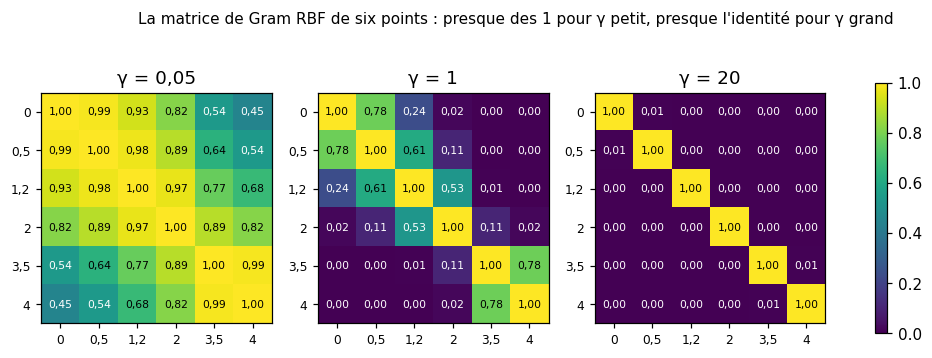
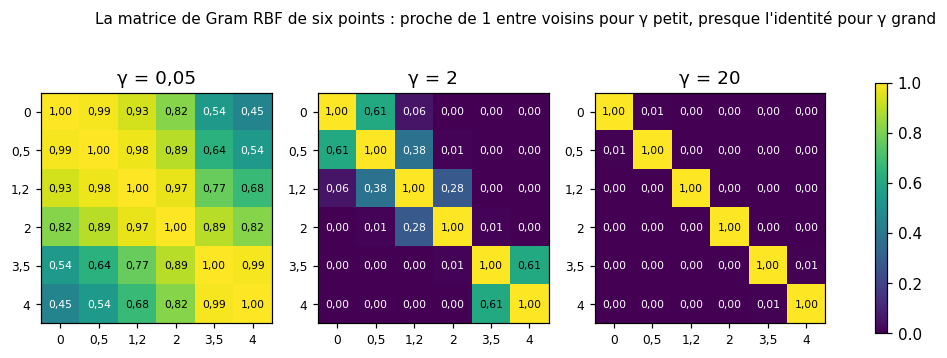
M13b: corrections de la relecture (règle de partage)
Claude-Session: https://claude.ai/code/session_01Nzd2BLBqKp1WGBHcAcsxs2

diff --git a/tools/chapters/figures_m13b.py b/tools/chapters/figures_m13b.py
@@ -36,7 +36,7 @@ POS = np.array([[6.0, 1.0], [7.0, 3.0], [8.0, 0.0]])          # §6: the positiv
 NEG = np.array([[3.0, 2.0], [1.0, 4.0], [0.0, 2.0]])          # §6: the negative examples
 W_SVM, B_SVM = np.array([0.6, -0.2]), -2.4                    # §6: the hard-margin solution
 GRAM_X = np.array([0.0, 0.5, 1.2, 2.0, 3.5, 4.0])             # §8: six points on a line
-GAMMAS = (0.05, 1.0, 20.0)                                    # §8: three widths
+GAMMAS = (0.05, 2.0, 20.0)                                    # §8: three widths
 
 
 def french_number(value: float, _pos=None) -> str:
@@ -181,7 +181,7 @@ def rbf_gram() -> None:
         ax.set_yticks(range(6), [french_number(v) for v in GRAM_X], fontsize=8)
         ax.set_title(f"γ = {french_number(gamma)}")
     fig.colorbar(im, ax=axes, shrink=0.8)
-    fig.suptitle("La matrice de Gram RBF de six points : presque des 1 pour γ petit, presque l'identité pour γ grand",
+    fig.suptitle("La matrice de Gram RBF de six points : proche de 1 entre voisins pour γ petit, presque l'identité pour γ grand",
                  fontsize=10)
     OUT.mkdir(parents=True, exist_ok=True)
     fig.savefig(OUT / "gram_rbf.png", dpi=DPI, bbox_inches="tight")

diff --git a/chapitres/m13b_lagrange_svm/01_fiche.md b/chapitres/m13b_lagrange_svm/01_fiche.md
@@ -41,7 +41,7 @@ Parcours essentiel : tout sauf Q3, Q8, M13b.2, M13b.4, M13b.6, M13b.10, M13b.11,
 - après le **§7** : le **§12.2** (*Primal Support Vector Machine*) : la marge (§12.2.1 à §12.2.3, que M10 t'a préparée), puis la marge souple vue géométriquement (§12.2.4) et par une loss (§12.2.5) ;
 - après le **§8** : le **§12.3** (*Dual Support Vector Machine* : la dualité par Lagrange, puis une lecture par les enveloppes convexes, qui prolonge M10 §2), le **§12.4** (*Kernels*) et le **§12.5** (*Numerical Solution*, à survoler). Questions : M13b.22.
 
-📐 **Notations.** MML écrit une contrainte d'inégalité $g_i(\mathbf{x}) \le 0$, ses multiplicateurs $\lambda_i \ge 0$ et le lagrangien $f + \sum_i \lambda_i g_i$, comme la fiche ; mais la fiche réserve $\lambda$ aux contraintes d'**égalité** (multiplicateur de signe quelconque), écrit $\mu$ ceux des **inégalités** (positifs ou nuls) et $\alpha_i$ ceux de la SVM, un par exemple. MML écrit $\langle \mathbf{w}, \mathbf{x} \rangle$ le produit scalaire, $N$ le nombre d'exemples, $\xi_n$ les variables d'écart et $r$ la marge. **M10 notait $\gamma$ la marge ; ici, la marge s'écrit $\rho$**, parce que $\gamma$ devient le paramètre du noyau RBF (§8). La marge est $\rho = 1/\lVert\mathbf{w}\rVert$ (de la frontière au point le plus proche), la **bande** a une largeur $2\rho = 2/\lVert\mathbf{w}\rVert$ : certains auteurs appellent marge cette largeur entière. Les labels d'une SVM valent $-1$ ou $+1$.
+📐 **Notations.** MML écrit une contrainte d'inégalité $g_i(\mathbf{x}) \le 0$, ses multiplicateurs $\lambda_i \ge 0$ et le lagrangien $f + \sum_i \lambda_i g_i$, comme la fiche ; mais la fiche réserve $\lambda$ aux contraintes d'**égalité** (multiplicateur de signe quelconque), écrit $\mu$ ceux des **inégalités** (positifs ou nuls) et $\alpha_i$ ceux de la SVM, un par exemple. MML écrit $\langle \mathbf{w}, \mathbf{x} \rangle$ le produit scalaire, $N$ le nombre d'exemples, $\xi_n$ les variables d'écart et $r$ la marge. **M10 notait $\gamma$ la marge ; ici, la marge s'écrit $\rho$**, parce que $\gamma$ devient le paramètre du noyau RBF (§8). La marge est $\rho = 1/\lVert\mathbf{w}\rVert$ (de la frontière au point le plus proche), la **bande** a une largeur $2\rho = 2/\lVert\mathbf{w}\rVert$. MML ($r$) et M10 ($\gamma$) appellent marge la distance de la frontière au point le plus proche ; d'autres textes donnent ce nom à $2\rho$ : fie-toi à la formule plutôt qu'au mot. Les labels d'une SVM valent $-1$ ou $+1$.
 
 **Deux homonymes.** Le **noyau** d'une SVM (*kernel*, une fonction de deux points, §8) n'a rien à voir avec le noyau d'une application linéaire (M12a). Et la **matrice de Gram** du §8 est la matrice $n \times n$ des produits scalaires des **exemples** (les lignes de $\mathbf{X}$) : c'est $\mathbf{X}\mathbf{X}^\top$, alors que M12c appelait matrice de Gram $\mathbf{X}^\top\mathbf{X}$, de taille $p \times p$, celle des colonnes.
 
@@ -67,7 +67,7 @@ Vocabulaire anglais de ce chapitre : *constrained optimization*, *equality / ine
 6. **Problème convexe** : objectif convexe, inégalités convexes, égalités affines. Tout minimum local y est global, et les conditions KKT suffisent.
 7. **SVM à marge dure** : $\min \frac{1}{2}\lVert\mathbf{w}\rVert^2$ sous $y_i(\mathbf{w} \cdot \mathbf{x}_i + b) \ge 1$ ; marge $\rho = 1/\lVert\mathbf{w}\rVert$ ; $\mathbf{w}$ est unique.
 8. **Marge souple** : $J(\mathbf{w}, b) = \frac{1}{2}\lVert\mathbf{w}\rVert^2 + C\sum_i \max(0, 1 - y_i(\mathbf{w} \cdot \mathbf{x}_i + b))$, la **hinge loss** ; on la minimise par **sous-gradient**, sans garantie de baisse à chaque pas.
-9. **Dual** : $\mathbf{w} = \sum_i \alpha_i y_i \mathbf{x}_i$, $\sum_i \alpha_i y_i = 0$, $0 \le \alpha_i \le C$ ; les **vecteurs de support** sont les exemples où $\alpha_i > 0$, et eux seuls comptent.
+9. **Dual** : $\mathbf{w} = \sum_i \alpha_i y_i \mathbf{x}_i$, $\sum_i \alpha_i y_i = 0$, $0 \le \alpha_i \le C$ ; les **vecteurs de support** sont les exemples où $\alpha_i > 0$ : $\mathbf{w}$ ne dépend que d'eux.
 10. Le dual et la décision ne demandent que des produits scalaires $\mathbf{x}_i \cdot \mathbf{x}_j$ : les remplacer par un **noyau** $k(\mathbf{x}, \mathbf{z}) = \varphi(\mathbf{x}) \cdot \varphi(\mathbf{z})$ (polynomial, RBF), c'est travailler dans un autre espace sans jamais calculer $\varphi$.
 
 ---
@@ -80,7 +80,7 @@ On cherche le minimum de $f(\mathbf{x})$ non plus sur tout $\mathbb{R}^n$, mais 
 $$\min_{\mathbf{x}} f(\mathbf{x}) \quad \text{sous la contrainte} \quad g(\mathbf{x}) = 0.$$
 Les points qui vérifient la contrainte forment l'**ensemble admissible** (*feasible set*). Annuler $\nabla f$ ne sert plus à rien : le minimum libre n'est en général pas admissible.
 
-**Exemple.** Minimiser $f(x, y) = x^2 + 3y^2$ sous $x + y = 8$. On peut remplacer $y$ par $8 - x$ et minimiser une fonction d'une variable : $x^2 + 3(8 - x)^2$, de dérivée $2x - 6(8 - x) = 8x - 48$, nulle en $x = 6$, donc $y = 2$ et $f = 36 + 12 = 48$. Cette **élimination** marche ici, mais elle devient vite impraticable (une contrainte non linéaire, plusieurs contraintes, beaucoup de variables). Lagrange donne une méthode générale.
+**Exemple.** Minimiser $f(x, y) = x^2 + 3y^2$ sous $x + y = 8$. On peut remplacer $y$ par $8 - x$ et minimiser une fonction d'une variable : $x^2 + 3(8 - x)^2$, de dérivée $2x - 6(8 - x) = 8x - 48$, nulle en $x = 6$, donc $y = 2$ et $f = 36 + 12 = 48$. Cette **élimination** marche ici, mais elle devient vite impraticable (une contrainte non linéaire, plusieurs contraintes, beaucoup de variables). Lagrange donne une méthode générale. (C'est l'ellipse de 🔮 M05b.22, deux fois plus grande : en $(3, 1)$, sa ligne de niveau 12 avait déjà la direction $(1, -1)$, celle des droites $x + y = \text{constante}$.)
 
 ### Les lignes de niveau touchent la contrainte
 
@@ -279,13 +279,13 @@ Six exemples : label $+1$ pour $(6, 1)$, $(7, 3)$, $(8, 0)$ ; label $-1$ pour $(
 
 ![Six exemples, la frontière w · x + b = 0 et les bords à ±1 : la bande, de largeur √10, s'appuie sur les deux vecteurs de support (6, 1) et (3, 2)](figures/svm_marge_dure.png)
 
-⚠ **Erreur classique.** Confondre la marge et la largeur de la bande (un facteur 2), ou la marge et $\lVert\mathbf{w}\rVert$ : ici $\lVert\mathbf{w}\rVert \approx 0{,}63$, la marge $\approx 1{,}58$, la bande $\approx 3{,}16$. Écris toujours laquelle tu donnes (🐛 M13b.32).
+⚠ **Erreur classique.** Confondre la marge et la largeur de la bande (un facteur 2), ou la marge et $\lVert\mathbf{w}\rVert$ : ici $\lVert\mathbf{w}\rVert \approx 0{,}63$, $\rho \approx 1{,}58$, $2\rho \approx 3{,}16$ (🐛 M13b.32).
 
 ## §7 · Marge souple, hinge loss et sous-gradient
 
 ### Autoriser des violations
 
-Des données réelles ne sont presque jamais séparables, et même quand elles le sont, un seul point aberrant peut imposer une bande très étroite. La **marge souple** (*soft margin*) autorise chaque exemple à manquer sa marge d'une quantité $\xi_i \ge 0$, une **variable d'écart** (*slack variable*), et fait payer ce manque :
+Des données réelles ne sont presque jamais séparables, et même quand elles le sont, un seul point aberrant peut imposer une bande très étroite. La **marge souple** (*soft margin*) relâche chaque contrainte en $y_i(\mathbf{w} \cdot \mathbf{x}_i + b) \ge 1 - \xi_i$, avec une **variable d'écart** (*slack variable*) $\xi_i \ge 0$ par exemple, et ajoute $C\sum_i \xi_i$ à l'objectif :
 $$\min_{\mathbf{w}, b, \boldsymbol{\xi}} \ \frac{1}{2}\lVert\mathbf{w}\rVert^2 + C\sum_{i=1}^n \xi_i \quad \text{sous} \quad y_i(\mathbf{w} \cdot \mathbf{x}_i + b) \ge 1 - \xi_i, \quad \xi_i \ge 0.$$
 $C > 0$ règle l'échange entre une bande large ($\lVert\mathbf{w}\rVert$ petit) et peu de manques. C'est encore un programme quadratique convexe, en $p + 1 + n$ variables.
 
@@ -305,7 +305,7 @@ où $\ell$ est la **hinge loss** (« charnière »), une fonction de la marge fo
 
 En divisant $J$ par $nC$, on retrouve la forme « loss moyenne plus pénalité » des chapitres de régression :
 $$\frac{J(\mathbf{w}, b)}{nC} = \frac{1}{n}\sum_{i=1}^n \ell\big(y_i\,s(\mathbf{x}_i)\big) + \frac{\lambda}{2}\lVert\mathbf{w}\rVert^2, \qquad \lambda = \frac{1}{nC} :$$
-un grand $C$ est une petite pénalité. Quand $C$ grandit, $\lVert\mathbf{w}\rVert$ grandit (ou reste égal), donc la bande se rétrécit ; si les données sont séparables, la solution tend vers celle de la marge dure quand $C \to \infty$.
+doubler $C$ divise $\lambda$ par 2. Quand $C$ grandit, $\lVert\mathbf{w}\rVert$ grandit (ou reste égal), donc la bande se rétrécit ; si les données sont séparables, la solution tend vers celle de la marge dure quand $C \to \infty$.
 
 <details><summary>Pourquoi ‖w‖ grandit avec C</summary>
 
@@ -319,7 +319,7 @@ $J$ n'est pas dérivable aux points où une marge fonctionnelle vaut exactement 
 
 > **Sous-gradient** (*subgradient*). $\mathbf{g}$ est un **sous-gradient** de la fonction convexe $f$ en $\mathbf{u}$ si
 > $$f(\mathbf{v}) \ge f(\mathbf{u}) + \mathbf{g} \cdot (\mathbf{v} - \mathbf{u}) \quad \text{pour tout } \mathbf{v} :$$
-> l'hyperplan de pente $\mathbf{g}$ qui passe par $(\mathbf{u}, f(\mathbf{u}))$ reste sous le graphe. L'ensemble des sous-gradients en $\mathbf{u}$ est le **sous-différentiel** $\partial f(\mathbf{u})$.
+> la fonction affine $\mathbf{v} \mapsto f(\mathbf{u}) + \mathbf{g} \cdot (\mathbf{v} - \mathbf{u})$ minore $f$ partout, et la touche en $\mathbf{u}$. L'ensemble des sous-gradients en $\mathbf{u}$ est le **sous-différentiel** $\partial f(\mathbf{u})$.
 
 Là où $f$ est dérivable, le seul sous-gradient est $\nabla f(\mathbf{u})$ (la tangente). À un coude, il y en a toute une famille : pour la hinge en $t = 1$, toute pente entre $-1$ et $0$ convient. Et $\mathbf{0} \in \partial f(\mathbf{u})$ si et seulement si $\mathbf{u}$ est un minimum : c'est la condition d'optimalité qui remplace $\nabla f = \mathbf{0}$.
 
@@ -362,9 +362,9 @@ Les conditions KKT de la marge souple classent les exemples en trois groupes :
 
 | $\alpha_i$ | Marge fonctionnelle $y_i\,s(\mathbf{x}_i)$ | Position |
 |---|---|---|
-| $\alpha_i = 0$ | $\ge 1$ | hors de la bande, du bon côté : n'entre pas dans $\mathbf{w}$ |
-| $0 < \alpha_i < C$ | $= 1$ | exactement sur un bord : vecteur de support « libre » |
-| $\alpha_i = C$ | $\le 1$ | dans la bande, ou du mauvais côté : vecteur de support « borné » |
+| $\alpha_i = 0$ | $\ge 1$ | au-delà du bord de sa classe, ou dessus : n'entre pas dans $\mathbf{w}$ |
+| $0 < \alpha_i < C$ | $= 1$ | sur le bord de sa classe : vecteur de support « libre » |
+| $\alpha_i = C$ | $\le 1$ | entre ce bord et la frontière ($0 \le t_i \le 1$), ou de l'autre côté de la frontière ($t_i < 0$) : vecteur de support « borné » |
 
 Les **vecteurs de support** sont les exemples où $\alpha_i > 0$. Une fois $\boldsymbol{\alpha}$ connu, $\mathbf{w} = \sum_i \alpha_i y_i \mathbf{x}_i$, et $b$ se lit sur un vecteur de support **libre** $\mathbf{x}_s$ : $y_s(\mathbf{w} \cdot \mathbf{x}_s + b) = 1$, donc $b = y_s - \mathbf{w} \cdot \mathbf{x}_s$ (car $y_s = \pm 1$, $1/y_s = y_s$). En pratique, on fait la moyenne sur tous les vecteurs libres (✏ M13b.11).
 
@@ -388,21 +388,21 @@ C'est l'**astuce du noyau** (*kernel trick*) : une SVM linéaire dans l'espace d
 
 En dimension 1, avec $c = 1$ et $d = 2$ :
 $$(1 + xz)^2 = 1 + 2xz + x^2z^2 = \big(1,\ \sqrt{2}\,x,\ x^2\big) \cdot \big(1,\ \sqrt{2}\,z,\ z^2\big) :$$
-$\varphi(x) = (1, \sqrt{2}\,x, x^2)$ a trois coordonnées, et les $\sqrt{2}$ sont là pour que le terme croisé $2xz$ sorte d'un produit scalaire. En dimension $p$, le développement de $(1 + \mathbf{x} \cdot \mathbf{z})^d$ fait apparaître **tous les monômes** des $x_j$ de degré au plus $d$, chacun avec un coefficient : $\varphi$ a autant de coordonnées que `count_monomials(p, d, include_constant=True)` en compte (M09b). Pour $p = 50$ et $d = 3$, c'est déjà $\binom{53}{3} = 23\,426$ coordonnées, alors que $k$ ne demande qu'un produit scalaire de 50 termes, une addition et un cube. ✏ M13b.12 écrit $\varphi$ en dimension 2.
+$\varphi(x) = (1, \sqrt{2}\,x, x^2)$ a trois coordonnées, et les $\sqrt{2}$ sont là pour que le terme croisé $2xz$ sorte d'un produit scalaire. En dimension $p$, le développement de $(1 + \mathbf{x} \cdot \mathbf{z})^d$ fait apparaître **tous les monômes** des $x_j$ de degré au plus $d$, chacun avec un coefficient : $\varphi$ a autant de coordonnées que `count_monomials(p, d, include_constant=True)` en compte (M09b). Pour $p = 50$ et $d = 3$, c'est déjà $\binom{53}{3} = 23\,426$ coordonnées, et autant de produits pour $\varphi(\mathbf{x}) \cdot \varphi(\mathbf{z})$ ; $k$, lui, se calcule en une cinquantaine de multiplications. ✏ M13b.12 écrit $\varphi$ en dimension 2.
 
 ### Le noyau RBF
 
 > **Noyau RBF** (gaussien, *radial basis function*). $k(\mathbf{x}, \mathbf{z}) = e^{-\gamma\lVert\mathbf{x} - \mathbf{z}\rVert^2}$, avec $\gamma > 0$.
 
-Il ne dépend que de la distance entre les points : $k(\mathbf{x}, \mathbf{x}) = 1$, et $k$ décroît de 1 vers 0 quand les points s'éloignent, d'autant plus vite que $\gamma$ est grand. Son $\varphi$ a une **suite infinie** de coordonnées. En dimension 1 :
+Il ne dépend que de la distance $d = \lVert\mathbf{x} - \mathbf{z}\rVert$, et passe sous 1 % dès que $\gamma d^2 > 4{,}6$, soit $d > 2{,}15/\sqrt{\gamma}$ : $1/\sqrt{\gamma}$ est l'échelle de longueur du noyau. Son $\varphi$ a une **suite infinie** de coordonnées. En dimension 1 :
 $$e^{-\gamma(x - z)^2} = e^{-\gamma x^2}\,e^{-\gamma z^2}\,e^{2\gamma xz} = \sum_{m=0}^{\infty} \Big(e^{-\gamma x^2}\sqrt{\tfrac{(2\gamma)^m}{m!}}\,x^m\Big)\Big(e^{-\gamma z^2}\sqrt{\tfrac{(2\gamma)^m}{m!}}\,z^m\Big),$$
 par la série de l'exponentielle (M05a) : $\varphi_m(x) = e^{-\gamma x^2}\sqrt{(2\gamma)^m/m!}\;x^m$, pour $m = 0, 1, 2, \ldots$ Aucune machine ne calculerait $\varphi$, mais $k$ se calcule en une ligne.
 
-**Distances dans l'espace des features.** Pour tout noyau, $\lVert\varphi(\mathbf{x}) - \varphi(\mathbf{z})\rVert^2 = k(\mathbf{x}, \mathbf{x}) - 2k(\mathbf{x}, \mathbf{z}) + k(\mathbf{z}, \mathbf{z})$ (développe le carré). Pour le RBF, c'est $2 - 2k(\mathbf{x}, \mathbf{z})$ : les images sont toutes sur une sphère de rayon 1, à moins de $\sqrt{2}$ les unes des autres.
+**Distances dans l'espace des features.** Pour tout noyau, $\lVert\varphi(\mathbf{x}) - \varphi(\mathbf{z})\rVert^2 = k(\mathbf{x}, \mathbf{x}) - 2k(\mathbf{x}, \mathbf{z}) + k(\mathbf{z}, \mathbf{z})$ (développe le carré). Pour le RBF, où $k(\mathbf{x}, \mathbf{x}) = e^0 = 1$, c'est $2 - 2k(\mathbf{x}, \mathbf{z})$ : les images sont toutes sur une sphère de rayon 1, à moins de $\sqrt{2}$ les unes des autres.
 
-**L'effet de γ.** Quand $\gamma \to 0$, toutes les valeurs $k(\mathbf{x}_i, \mathbf{x}_j)$ tendent vers 1 : la matrice de Gram tend vers la matrice pleine de 1, de rang 1, et la SVM ne distingue presque plus les exemples. Quand $\gamma \to \infty$, $k(\mathbf{x}_i, \mathbf{x}_j) \to 0$ pour $i \ne j$ : la matrice de Gram tend vers l'identité, chaque exemple n'agit plus que dans un tout petit voisinage de lui-même : la SVM apprend ses données par cœur (overfitting), et, loin de tous les exemples, la décision se réduit au signe de $b$ (🔗 M13b.20). On règle $\gamma$ et $C$ ensemble, par validation croisée (✏ M13b.13).
+**L'effet de γ.** Quand $\gamma \to 0$, toutes les valeurs $k(\mathbf{x}_i, \mathbf{x}_j)$ tendent vers 1 : la matrice de Gram tend vers la matrice pleine de 1, de rang 1, et la SVM ne distingue presque plus les exemples. Quand $\gamma \to \infty$, $k(\mathbf{x}_i, \mathbf{x}_j) \to 0$ pour $i \ne j$ : la matrice de Gram tend vers l'identité, chaque exemple n'agit plus que dans un tout petit voisinage de lui-même : la SVM apprend ses données par cœur (overfitting), et, loin de tous les exemples, la décision se réduit au signe de $b$ (🔗 M13b.20). $\gamma$ et $C$ sont des hyperparamètres : cette fiche n'en fixe pas la valeur, qui se choisit sur des données de validation (workbookIA 13). ✏ M13b.13 calcule les deux limites.
 
-![La matrice de Gram RBF de six points d'une droite (0 ; 0,5 ; 1,2 ; 2 ; 3,5 ; 4) pour γ = 0,05, 1 et 20 : des valeurs proches de 1 entre voisins, puis des blocs de voisins, puis presque l'identité](figures/gram_rbf.png)
+![La matrice de Gram RBF de six points d'une droite (0 ; 0,5 ; 1,2 ; 2 ; 3,5 ; 4) pour γ = 0,05, 2 et 20 : des valeurs proches de 1 entre voisins, puis des blocs de voisins, puis presque l'identité](figures/gram_rbf.png)
 
 ### Quelles fonctions sont des noyaux ?
 

diff --git a/chapitres/m13b_lagrange_svm/02_exercices.md b/chapitres/m13b_lagrange_svm/02_exercices.md
@@ -74,7 +74,7 @@ Pour chaque problème, dis s'il est convexe, et pourquoi en une phrase.
 3. Vrai ou faux : un exemple bien classé ($t > 0$) ne coûte jamais rien.
 4. Vrai ou faux : pour tout $t$, $\max(0, 1 - t)$ est au moins égal à l'erreur (1 si $t \le 0$, 0 sinon).
 5. Donne deux sous-gradients de la hinge en $t = 1$.
-6. Vrai ou faux : multiplier $C$ par 10 multiplie la largeur de la bande par 10.
+6. Vrai ou faux : pour $n = 5$ exemples et $C = 2$, la forme « hinge moyenne $+ \frac{\lambda}{2}\lVert\mathbf{w}\rVert^2$ » a $\lambda = 0{,}1$.
 
 ### M13b.Q7 — Noyau valide ou pas ? 🧠 ★ ⏱ 4 min
 *Fiche §8 · parcours C, E*
@@ -85,14 +85,14 @@ Pour chacune des fonctions $k(\mathbf{x}, \mathbf{z})$ de $\mathbb{R}^p \times \
 3. $k(\mathbf{x}, \mathbf{z}) = -\,\mathbf{x} \cdot \mathbf{z}$.
 4. $k(\mathbf{x}, \mathbf{z}) = (\mathbf{x} \cdot \mathbf{z})^3 + e^{-2\lVert\mathbf{x} - \mathbf{z}\rVert^2}$.
 5. $k(\mathbf{x}, \mathbf{z}) = x_1 z_2$ (en dimension 2).
-6. Vrai ou faux : une matrice de Gram RBF a toujours des 1 sur sa diagonale.
+6. Vrai ou faux : si deux des points sont confondus, la matrice de Gram RBF est singulière.
 
 ### M13b.Q8 — Primal ou dual : lequel résoudre, et quand ? 🧠 ★ ⏱ 4 min
 *Fiche §8 · parcours C*
 
 1. Combien de variables a le problème primal d'une SVM à marge souple, pour $n$ exemples et $p$ features ? Et le dual ?
 2. Un dataset de 2 millions d'exemples et 30 features, une SVM linéaire : primal ou dual ? Pourquoi ?
-3. Un dataset de 3 000 exemples, un noyau RBF : primal ou dual ? Pourquoi ?
+3. Un dataset de 4 000 exemples, un noyau RBF : primal ou dual ? Pourquoi ?
 4. Quelle matrice le dual doit-il manipuler, et de quelle taille ?
 5. Vrai ou faux : pour prédire avec une SVM à noyau, il faut garder les vecteurs de support.
 6. Vrai ou faux : le noyau RBF peut s'utiliser dans le primal en calculant $\varphi$.
@@ -124,9 +124,9 @@ $f(x, y) = x^2 - xy + 2y^2$.
 ### M13b.R3 — Matrices définies positives (M12c) 🔁 ★ ⏱ 5 min
 *Fiche §5 et §8 · parcours C, E*
 
-1. La matrice $\begin{pmatrix} 5 & 2 \\ 2 & 1 \end{pmatrix}$ est-elle définie positive ? (Trace et déterminant.)
-2. Et $\begin{pmatrix} 1 & 3 \\ 3 & 4 \end{pmatrix}$ ?
-3. La matrice de Gram (des produits scalaires deux à deux) des vecteurs $(1, 0, 2)$, $(0, 1, 1)$ et $(1, 1, 3)$ ?
+1. La matrice $\begin{pmatrix} 6 & 2 \\ 2 & 1 \end{pmatrix}$ est-elle définie positive ? (Trace et déterminant.)
+2. Et $\begin{pmatrix} 2 & 3 \\ 3 & 4 \end{pmatrix}$ ?
+3. La matrice de Gram (des produits scalaires deux à deux) des vecteurs $(1, 2, 1)$, $(0, 1, -1)$ et $(1, 3, 0)$ ?
 4. Est-elle définie positive, semi-définie positive, ou ni l'un ni l'autre ? Pourquoi ?
 5. Pourquoi une matrice de Gram est-elle toujours semi-définie positive ?
 
@@ -301,7 +301,7 @@ $\mathbf{w} = (1 ;\ -0{,}5)$, $b = 0{,}5$, $C = 2$. Six exemples : label $+1$ po
 | g | le nombre d'exemples de marge fonctionnelle strictement inférieure à 1 | un entier |
 | h | le nombre d'exemples mal classés ($t_i < 0$) | un entier |
 
-Dans ta copie : range les six exemples en trois groupes (hors de la bande et bien classés, dans la bande ou sur un bord, du mauvais côté). Que vérifie la relation $J = nC \times$ (la forme de f)) ?
+Dans ta copie : range les six exemples selon leur marge fonctionnelle ($t_i > 1$, $0 \le t_i \le 1$, $t_i < 0$), et situe chaque groupe par rapport au bord de sa classe et à la frontière. Que vérifie la relation $J = nC \times$ (la forme de f)) ?
 
 ### Ex M13b.10 — Un pas de sous-gradient sur l'objectif d'une SVM linéaire ✏ ★★ ⏱ 15 min
 **Objectif :** calculer un sous-gradient de l'objectif d'une SVM linéaire, faire un pas, et voir le choix à faire en un point du coude.
@@ -343,25 +343,24 @@ Une SVM à marge souple, $C = 1$, a été entraînée sur six exemples. Ses mult
 | f | l'objectif primal $J(\mathbf{w}, b)$ | un nombre |
 | g | la valeur du dual, $\sum_i \alpha_i - \frac{1}{2}\lVert\mathbf{w}\rVert^2$ | un nombre |
 
-Dans ta copie : quels exemples sont des vecteurs de support libres, lesquels bornés ? Vérifie que b) donne bien la même valeur de $b$ sur les deux vecteurs libres. Les marges fonctionnelles de e) sont-elles cohérentes avec le tableau des trois groupes de la fiche ? Que dit l'égalité de f) et g) ?
+Dans ta copie : quels exemples sont des vecteurs de support libres, lesquels bornés ? Vérifie que b) donne bien la même valeur de $b$ sur les deux vecteurs libres. Les marges fonctionnelles de e) sont-elles cohérentes avec le tableau de « Lire les multiplicateurs » (fiche §8) ? Que dit l'égalité de f) et g) ?
 
 ### Ex M13b.12 — Le noyau (1 + x · z)² en dimension 2 : sa fonction φ à six coordonnées ✏ ★★ ⏱ 20 min
-**Objectif :** développer le noyau polynomial de degré 2 en dimension 2, écrire sa fonction $\varphi$, et compter ses coordonnées en dimension plus grande.
+**Objectif :** développer le noyau polynomial de degré 2 en dimension 2, écrire sa fonction $\varphi$, voir le rôle de la constante, et compter ses coordonnées en dimension plus grande.
 **Prérequis :** fiche §8 ; M09b · **Parcours :** C
 
-$k(\mathbf{x}, \mathbf{z}) = (1 + \mathbf{x} \cdot \mathbf{z})^2$, avec $\mathbf{x}, \mathbf{z} \in \mathbb{R}^2$. On prend $\mathbf{x} = (4, -3)$ et $\mathbf{z} = (-1, 3)$.
+$k(\mathbf{x}, \mathbf{z}) = (1 + \mathbf{x} \cdot \mathbf{z})^2$, avec $\mathbf{x}, \mathbf{z} \in \mathbb{R}^2$. On prend $\mathbf{x} = (4, -3)$ et $\mathbf{z} = (3, -5)$.
 
 | | Question | Réponse attendue |
 |---|---|---|
-| a | $\mathbf{x} \cdot \mathbf{z}$ | un nombre |
-| b | $k(\mathbf{x}, \mathbf{z})$ | un nombre |
-| c | $\varphi(\mathbf{x})$, dans l'ordre $(1, \sqrt{2}\,x_1, \sqrt{2}\,x_2, x_1^2, \sqrt{2}\,x_1x_2, x_2^2)$ | une liste de 6 nombres (2 décimales) |
-| d | $\varphi(\mathbf{x}) \cdot \varphi(\mathbf{z})$ | un nombre |
-| e | $\lVert\varphi(\mathbf{x}) - \varphi(\mathbf{z})\rVert^2$, par les valeurs du noyau | un nombre |
-| f | le nombre de coordonnées de $\varphi$ pour $(1 + \mathbf{x} \cdot \mathbf{z})^2$ en dimension $p = 9$ | un entier |
-| g | le même pour $(1 + \mathbf{x} \cdot \mathbf{z})^3$ en dimension $p = 9$ | un entier |
+| a | $\varphi(\mathbf{x})$, dans l'ordre $(1, \sqrt{2}\,x_1, \sqrt{2}\,x_2, x_1^2, \sqrt{2}\,x_1x_2, x_2^2)$ | une liste de 6 nombres (2 décimales) |
+| b | $\varphi(\mathbf{z})$, dans le même ordre | une liste de 6 nombres (2 décimales) |
+| c | $k(\mathbf{x}, \mathbf{z})$ | un entier |
+| d | pour le noyau $(3 + \mathbf{x} \cdot \mathbf{z})^2$, $\varphi(\mathbf{x})$ dans l'ordre $(3, \sqrt{6}\,x_1, \sqrt{6}\,x_2, x_1^2, \sqrt{2}\,x_1x_2, x_2^2)$ | une liste de 6 nombres (2 décimales) |
+| e | le nombre de coordonnées de $\varphi$ pour $(1 + \mathbf{x} \cdot \mathbf{z})^2$ en dimension $p = 9$ | un entier |
+| f | le même pour $(1 + \mathbf{x} \cdot \mathbf{z})^3$ en dimension $p = 9$ | un entier |
 
-Dans ta copie : développe $(1 + x_1z_1 + x_2z_2)^2$ et lis-y $\varphi$. D'où viennent les $\sqrt{2}$ ? Retrouve f) et g) par `count_monomials` (M09b). Combien d'opérations pour $k$, et combien pour $\varphi(\mathbf{x}) \cdot \varphi(\mathbf{z})$, en dimension 9 au degré 3 ?
+Dans ta copie : développe $(1 + x_1z_1 + x_2z_2)^2$ et lis-y $\varphi$ ; d'où viennent les $\sqrt{2}$ ? Vérifie que $\varphi(\mathbf{x}) \cdot \varphi(\mathbf{z})$ redonne c). Écris $\varphi$ pour $(c + \mathbf{x} \cdot \mathbf{z})^2$ : quelles coordonnées dépendent de $c$, et pourquoi faut-il $c \ge 0$ ? Retrouve e) et f) par `count_monomials` (M09b).
 
 ### Ex M13b.13 — La matrice de Gram d'un noyau RBF sur trois points, et l'effet de γ ✏ ★ ⏱ 15 min
 **Objectif :** calculer une matrice de Gram RBF, une distance dans l'espace des features, et voir ce que devient la matrice quand $\gamma$ est très petit ou très grand.
@@ -468,7 +467,7 @@ Une SVM à noyau RBF, $\gamma = 0{,}3$, a trois vecteurs de support : $(-1, 1)$ 
 | a | $\sum_i \alpha_i y_i$ | un nombre |
 | b | $s(0{,}5 ;\ 0{,}5)$ | un nombre (4 décimales) |
 | c | la classe prédite pour $(0{,}5 ;\ 0{,}5)$ | un entier ($-1$ ou $+1$) |
-| d | $s(2, 2)$ | un nombre (4 décimales) |
+| d | $s(2, 4)$ | un nombre (4 décimales) |
 | e | la limite de $s(\mathbf{x})$ quand $\mathbf{x}$ s'éloigne à l'infini | un nombre |
 | f | le nombre d'évaluations du noyau pour une prédiction | un entier |
 

diff --git a/annexes/glossaire.md b/annexes/glossaire.md
@@ -355,7 +355,7 @@ Les termes mathématiques sont en français dans les fiches, avec l'anglais en g
 | mantisse | significand, mantissa | le nombre $m$ de la notation scientifique $m \times 10^k$, avec $1 \le |m| < 10$ | R1 |
 | MAP (maximum a posteriori) | maximum a posteriori (MAP) estimate | la valeur du paramètre qui maximise l'a posteriori : son mode | M04 |
 | marche (fonction de Heaviside) | step function, Heaviside function | vaut 0 avant 0 et 1 après ; la valeur en 0 est une convention ; voir aussi « seuil (fonction) » | R3 |
-| marge dure, marge souple | hard margin, soft margin | la SVM qui exige $y_i(\mathbf{w} \cdot \mathbf{x}_i + b) \ge 1$ pour tous les exemples, ou celle qui autorise des violations payées $C$ par unité (les variables d'écart, ou la hinge loss) | M13b |
+| marge dure, marge souple | hard margin, soft margin | la SVM qui exige $y_i(\mathbf{w} \cdot \mathbf{x}_i + b) \ge 1$ pour tous les exemples, ou celle qui relâche chaque contrainte en $\ge 1 - \xi_i$ ($\xi_i \ge 0$) et ajoute $C\sum_i \xi_i$ à l'objectif (forme équivalente : la hinge loss) | M13b |
 | marge fonctionnelle | functional margin | $y_i(\mathbf{w} \cdot \mathbf{x}_i + b)$ pour un point ; elle est multipliée par $c$ quand on multiplie $(\mathbf{w}, b)$ par $c$ | M10 |
 | marge géométrique | geometric margin | $\min_i \frac{y_i(\mathbf{w} \cdot \mathbf{x}_i + b)}{\lVert \mathbf{w} \rVert}$ : la distance signée du point le plus mal placé à l'hyperplan ; la plus grande possible vaut la moitié de la distance entre les enveloppes convexes | M10 |
 | Markov (inégalité de) | Markov's inequality | $P(X \ge a) \le \frac{\mathbb{E}[X]}{a}$ pour une variable $X \ge 0$ et $a > 0$ | M02c, M11 |
@@ -422,7 +422,7 @@ Les termes mathématiques sont en français dans les fiches, avec l'anglais en g
 | noyau (d'une application linéaire) | kernel, null space | $\ker\mathbf{A} = \{\mathbf{x} : \mathbf{A}\mathbf{x} = \mathbf{0}\}$, un sous-espace de l'espace de départ : les directions que l'application écrase | M12a |
 | noyau (d'une SVM) | kernel | une fonction $k(\mathbf{x}, \mathbf{z}) = \varphi(\mathbf{x}) \cdot \varphi(\mathbf{z})$ : symétrique, de matrices de Gram semi-définies positives ; linéaire, polynomial ou RBF | M13b |
 | noyau polynomial | polynomial kernel | $(\mathbf{x} \cdot \mathbf{z} + c)^d$, avec $c \ge 0$ : le produit scalaire des monômes de degré au plus $d$ (pondérés), soit $\binom{p + d}{d}$ coordonnées pour $c > 0$ | M13b |
-| noyau RBF, gaussien | RBF kernel, Gaussian kernel | $e^{-\gamma\lVert\mathbf{x} - \mathbf{z}\rVert^2}$, entre 0 et 1, égal à 1 pour deux points confondus ; son $\varphi$ a une infinité de coordonnées ; $\gamma$ grand : chaque exemple n'agit que près de lui | M13b |
+| noyau RBF, gaussien | RBF kernel, Gaussian kernel | $e^{-\gamma\lVert\mathbf{x} - \mathbf{z}\rVert^2}$, dans $]0, 1]$, fonction décroissante de la distance ; $1/\sqrt{\gamma}$ fixe son échelle de longueur ; son $\varphi$ a une infinité de coordonnées | M13b |
 | numérateur, dénominateur | numerator, denominator | le nombre du haut et celui du bas d'une fraction | R1 |
 | octet | byte | 8 bits ; 1 ko = $10^3$ octets, 1 Mo = $10^6$, 1 Go = $10^9$ | R1 |
 | opérations élémentaires sur les lignes | elementary row operations | échanger deux lignes, multiplier une ligne par un nombre non nul, ajouter à une ligne un multiple d'une autre : elles ne changent pas les solutions | M09a |
@@ -641,7 +641,7 @@ Les termes mathématiques sont en français dans les fiches, avec l'anglais en g
 | variance expliquée (part de) | explained variance ratio | $\lambda_j/\sum_l\lambda_l$ : la part de la variance totale que garde l'axe principal $j$ ; la somme des $k$ premières est la part gardée par une ACP à $k$ composantes | M12d |
 | variance intra-groupes, inter-groupes | within-group, between-group variance | la moyenne pondérée des variances des groupes, et la moyenne pondérée des carrés des écarts des moyennes des groupes à la moyenne générale ; leur somme est la variance totale | M13a |
 | vecteur | vector | un déplacement (une direction, un sens, une longueur), donné par ses coordonnées ; en ML, une liste de nombres | R9 |
-| vecteur de support | support vector | un exemple de multiplicateur $\alpha_i > 0$ dans le dual d'une SVM : sur un bord de la bande (marge dure), ou sur un bord, dans la bande ou du mauvais côté (marge souple) ; retirer un exemple de multiplicateur nul ne change pas la solution | M10, M13b |
+| vecteur de support | support vector | un exemple de multiplicateur $\alpha_i > 0$ dans le dual d'une SVM : de marge fonctionnelle exactement 1 (marge dure), ou de marge fonctionnelle $t_i \le 1$ (marge souple) ; $\mathbf{w}$ ne dépend que d'eux | M10, M13b |
 | vecteur directeur, vecteur normal | direction vector, normal vector | un vecteur qui a la direction d'une droite ; un vecteur perpendiculaire à une droite ou à un plan (il engendre son complément orthogonal) | R9, M07, M12b |
 | vecteur one-hot | one-hot vector | le codage d'une catégorie : un 1 à sa place, des 0 ailleurs (un vecteur de la base canonique) | M07 |
 | vecteur unitaire | unit vector | un vecteur de norme 1 ; $\frac{\vec{u}}{\lVert \vec{u} \rVert}$ normalise $\vec{u}$ | R9, M07 |

diff --git a/annexes/symboles.md b/annexes/symboles.md
@@ -83,7 +83,7 @@ Une formule se lit comme une phrase. Ce tableau donne, pour chaque symbole, **co
 | $\frac{\partial^2 f}{\partial x^2}$, $\frac{\partial^2 f}{\partial y\,\partial x}$ | « d rond deux f sur d rond x deux », « d rond deux f sur d rond y d rond x » | second partial derivative | les mêmes dérivées secondes, $f_{xx}$ et $f_{xy}$, notées comme des fractions | $\frac{\partial^2}{\partial x^2}(x^3 y) = 6xy$ | M05b |
 | $\mathcal{L}(\mathbf{x}, \boldsymbol{\mu}, \boldsymbol{\lambda})$ | « L de x, mu, lambda », « le lagrangien » | Lagrangian | $f + \sum_i \mu_i g_i + \sum_j \lambda_j h_j$ ; les $\mu_i \ge 0$ multiplient les inégalités $g_i \le 0$, les $\lambda_j$ les égalités $h_j = 0$ | $x^2 + \mu(2 - x)$ | M13b |
 | $D(\boldsymbol{\mu}, \boldsymbol{\lambda})$ | « D de mu, lambda », « la fonction duale » | dual function | $\inf_{\mathbf{x}} \mathcal{L}(\mathbf{x}, \boldsymbol{\mu}, \boldsymbol{\lambda})$ | $D(\mu) = 2\mu - \frac{\mu^2}{4}$ | M13b |
-| $\partial f(\mathbf{u})$ | « sous-différentiel de f en u » | subdifferential of f at u | l'ensemble des sous-gradients de la fonction convexe $f$ en $\mathbf{u}$ (à ne pas confondre avec une dérivée partielle) | $\partial\lvert x \rvert(0) = [-1, 1]$ | M13b |
+| $\partial f(\mathbf{u})$ | « sous-différentiel de f en u » | subdifferential of f at u | l'ensemble des sous-gradients de la fonction convexe $f$ en $\mathbf{u}$ (à ne pas confondre avec une dérivée partielle) | $\partial\ell(1) = [-1, 0]$ pour la hinge $\ell(t) = \max(0, 1 - t)$ | M13b |
 | $\int_a^b f(x)\,dx$ | « intégrale de a à b de f(x) d x » | integral from a to b of f | aire (signée) sous la courbe | $\int_0^1 x\,dx = \frac{1}{2}$ | M02a |
 | $\int f(x)\,dx$ | « intégrale de f(x) d x », « primitive de f » | indefinite integral, antiderivative of f | une primitive quelconque, écrite avec une constante $+ C$ | $\int x^2\,dx = \frac{x^3}{3} + C$ | M02a |
 | $\big[F(x)\big]_a^b$ | « F(x) pris entre a et b » | F evaluated from a to b | $F(b) - F(a)$, la borne du haut d'abord | $\big[x^2\big]_1^3 = 9 - 1 = 8$ | M02a |
@@ -143,7 +143,7 @@ Une formule se lit comme une phrase. Ce tableau donne, pour chaque symbole, **co
 | $\gamma(\mathbf{w}, b)$, $\gamma^\star$ | « gamma de w et b », « gamma étoile » | margin, maximum margin | la marge géométrique d'un séparateur, la plus grande possible | $\gamma^\star = \frac{1}{2}\operatorname{dist}(\operatorname{conv} A, \operatorname{conv} B)$ | M10 |
 | $\rho$ | « rhô » | margin | en M13b, la marge d'une SVM, $\frac{1}{\lVert\mathbf{w}\rVert}$ en forme canonique (M10 l'écrivait $\gamma$) ; la bande a une largeur $2\rho$ | $\lVert\mathbf{w}\rVert = 0{,}25$ : $\rho = 4$ | M13b |
 | $t_i$, $\xi_i$, $\alpha_i$ | « t i », « xi i », « alpha i » | functional margin, slack variable, dual variable | la marge fonctionnelle $y_i(\mathbf{w} \cdot \mathbf{x}_i + b)$, la variable d'écart, et le multiplicateur de l'exemple $i$ dans le dual d'une SVM ($0 \le \alpha_i \le C$) | $t_i = 1$ : sur un bord | M13b |
-| $k(\mathbf{x}, \mathbf{z})$, $\varphi(\mathbf{x})$, $\mathbf{K}$ | « k de x et z », « phi de x », « la matrice de Gram » | kernel, feature map, Gram matrix | un noyau, sa fonction des features ($k = \varphi(\mathbf{x}) \cdot \varphi(\mathbf{z})$) et la matrice $n \times n$ des $k(\mathbf{x}_i, \mathbf{x}_j)$ | $k(\mathbf{x}, \mathbf{x}) = 1$ pour le RBF | M13b |
+| $k(\mathbf{x}, \mathbf{z})$, $\varphi(\mathbf{x})$, $\mathbf{K}$ | « k de x et z », « phi de x », « la matrice de Gram » | kernel, feature map, Gram matrix | un noyau, sa fonction des features ($k = \varphi(\mathbf{x}) \cdot \varphi(\mathbf{z})$) et la matrice $n \times n$ des $k(\mathbf{x}_i, \mathbf{x}_j)$ | $\mathbf{K} = \mathbf{X}\mathbf{X}^\top$ pour le noyau linéaire | M13b |
 | $\operatorname{Vect}(\mathbf{v}_1, \ldots, \mathbf{v}_k)$, $\operatorname{span}[\ldots]$ | « vect de v un, …, v k », « sous-espace engendré par… » | span of v one, …, v k | l'ensemble des combinaisons linéaires de ces vecteurs | $\operatorname{Vect}\big((1, 0, 0), (0, 1, 0)\big)$ : le plan $z = 0$ | M12a |
 | $\dim V$ | « dimension de V » | dimension of V | le nombre de vecteurs d'une base de $V$ | $\dim\mathbb{R}^4 = 4$ | M12a |
 | $\mathbb{R}_d[x]$ | « R d de x » | polynomials of degree at most d | les polynômes de degré au plus $d$, un espace de dimension $d + 1$ | $1 + 2x - x^2 \in \mathbb{R}_2[x]$ | M12a |

diff --git a/chapitres/m13b_lagrange_svm/04_indices.md b/chapitres/m13b_lagrange_svm/04_indices.md
@@ -112,7 +112,7 @@ Trace $\max(0, 1 - t)$ : deux morceaux de droite, un coude en $t = 1$.
 </details>
 <details><summary>Indice 3</summary>
 
-3 : regarde $t = 0{,}5$. 5 : les pentes des deux morceaux. 6 : la fiche démontre seulement que $\lVert\mathbf{w}\rVert$ grandit avec $C$.
+3 : regarde $t = 0{,}5$. 5 : les pentes des deux morceaux. 6 : relis « Le rôle de C » (fiche §7).
 
 </details>
 
@@ -130,7 +130,7 @@ Un noyau est symétrique et ses matrices de Gram sont semi-définies positives ;
 </details>
 <details><summary>Indice 3</summary>
 
-3 : regarde $k(\mathbf{x}, \mathbf{x})$. 5 : échange $\mathbf{x}$ et $\mathbf{z}$.
+3 : regarde $k(\mathbf{x}, \mathbf{x})$. 5 : échange $\mathbf{x}$ et $\mathbf{z}$. 6 : compare les lignes des deux points confondus.
 
 </details>
 
@@ -421,12 +421,12 @@ Relis « Des produits scalaires, puis des noyaux » et « Le noyau polynomial »
 </details>
 <details><summary>Indice 2</summary>
 
-Développe le carré d'une somme de trois termes : trois carrés et trois doubles produits.
+Développe le carré d'une somme de trois termes : trois carrés et trois doubles produits ; chaque terme est une fonction de $\mathbf{x}$ fois la même fonction de $\mathbf{z}$.
 
 </details>
 <details><summary>Indice 3</summary>
 
-e) $\lVert\varphi(\mathbf{x}) - \varphi(\mathbf{z})\rVert^2 = k(\mathbf{x}, \mathbf{x}) - 2k(\mathbf{x}, \mathbf{z}) + k(\mathbf{z}, \mathbf{z})$. f) les monômes de degré **au plus** 2 en 9 variables.
+d) $(3 + \mathbf{x} \cdot \mathbf{z})^2 = 9 + 6\,\mathbf{x} \cdot \mathbf{z} + (\mathbf{x} \cdot \mathbf{z})^2$ : la constante et les coordonnées de degré 1 changent. e) les monômes de degré **au plus** 2 en 9 variables.
 
 </details>
 

diff --git a/chapitres/m13b_lagrange_svm/06_mes_reponses.md b/chapitres/m13b_lagrange_svm/06_mes_reponses.md
@@ -199,7 +199,7 @@
 - f :
 - g :
 - h :
-- les trois groupes d'exemples ; ce que vérifie J = nC × (la forme de f)) :
+- les exemples rangés selon leur marge fonctionnelle ; ce que vérifie J = nC × (la forme de f)) :
 
 ### Ex M13b.10 — Un pas de sous-gradient sur l'objectif d'une SVM linéaire
 
@@ -231,8 +231,7 @@
 - d :
 - e :
 - f :
-- g :
-- le développement et φ ; l'origine des √2 ; f) et g) par count_monomials ; le nombre d'opérations :
+- le développement et φ ; l'origine des √2 ; φ(x) · φ(z) et c) ; φ pour (c + x · z)², et pourquoi c ≥ 0 ; e) et f) par count_monomials :
 
 ### Ex M13b.13 — La matrice de Gram d'un noyau RBF sur trois points, et l'effet de γ
 
